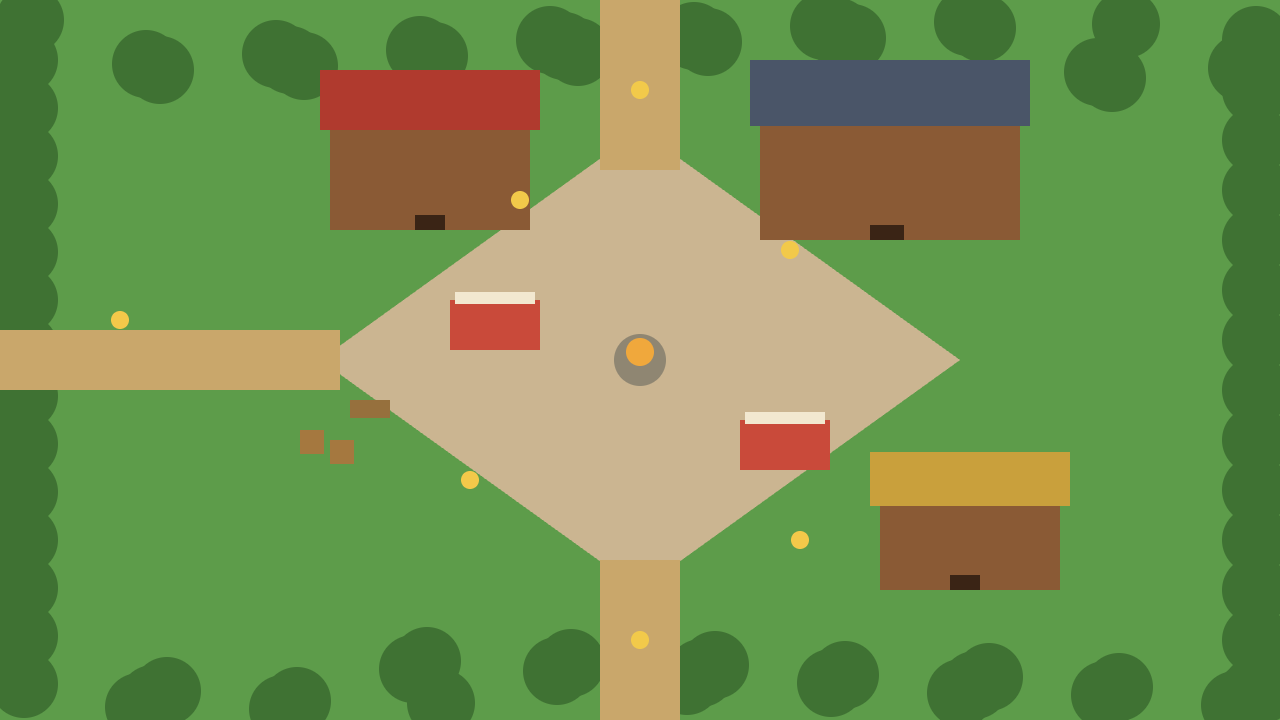
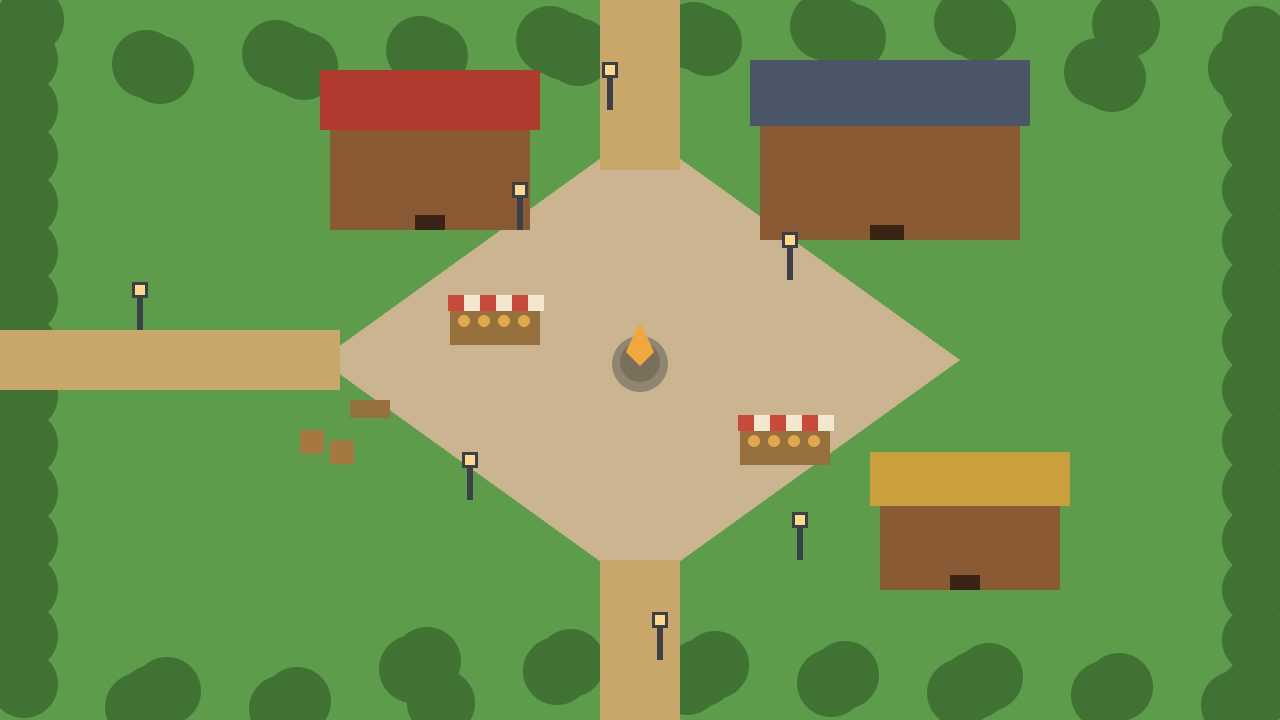
Playable scene prototypes: layout-locked square + free-form cottage interior
- proto.html/proto.js: painted backdrops, walkable polygons, camera pan,
  sliced painted June sprite, G debug overlay, Tab scene switch
- square-scene.png: regenerated from representational blockout (zero leaks)

diff --git a/public/js/proto.js b/public/js/proto.js
@@ -1,0 +1,221 @@
+'use strict';
+/* ============================================================
+   SCENE PROTOTYPE — painted backdrops + walkable polygons +
+   a generated sprite walking around. Two scenes:
+     square   — layout-locked workflow (blockout → painting)
+     interior — free-form workflow (painting → walkable mask)
+   ============================================================ */
+
+const canvas = document.getElementById('game');
+const ctx = canvas.getContext('2d');
+let cw = 0, ch = 0, dpr = 1;
+function resize() {
+  dpr = Math.min(window.devicePixelRatio || 1, 2);
+  cw = innerWidth; ch = innerHeight;
+  canvas.width = cw * dpr; canvas.height = ch * dpr;
+  canvas.style.width = cw + 'px'; canvas.style.height = ch + 'px';
+}
+addEventListener('resize', resize);
+resize();
+
+/* ---------- scenes (coordinates in image pixels) ---------- */
+const SCENES = {
+  square: {
+    img: 'assets/square-scene.png',
+    // how much of the image the viewport shows vertically (smaller = more zoomed)
+    viewH: 560,
+    charH: 95,
+    speed: 170,
+    spawn: [670, 600],
+    walk: [[295, 235], [1055, 235], [1300, 430], [1300, 720], [1040, 762], [330, 762], [80, 620], [80, 430]],
+    blocked: [
+      { kind: 'circle', x: 668, y: 500, r: 78 },              // heartlight pedestal
+      { kind: 'rect', x: 530, y: 210, w: 250, h: 165 },       // stall upper-center
+      { kind: 'rect', x: 275, y: 360, w: 150, h: 185 },       // stall left
+      { kind: 'rect', x: 945, y: 355, w: 150, h: 180 },       // stall right
+      { kind: 'rect', x: 455, y: 625, w: 250, h: 145 },       // stall bottom-left
+      { kind: 'rect', x: 730, y: 615, w: 215, h: 155 },       // stall bottom-right
+      { kind: 'rect', x: 195, y: 200, w: 280, h: 175 },       // bakery
+      { kind: 'rect', x: 860, y: 90, w: 320, h: 200 },        // elder hall
+      { kind: 'rect', x: 1020, y: 500, w: 330, h: 220 },      // thatched cottage
+      { kind: 'circle', x: 250, y: 470, r: 16 },              // lamps
+      { kind: 'circle', x: 765, y: 330, r: 14 },
+      { kind: 'circle', x: 1095, y: 460, r: 16 },
+      { kind: 'rect', x: 165, y: 460, w: 45, h: 105 },        // notice board
+      { kind: 'rect', x: 195, y: 570, w: 90, h: 80 },         // crates/barrels
+      { kind: 'rect', x: 320, y: 520, w: 60, h: 60 },         // barrel by left stall
+    ],
+  },
+  interior: {
+    img: 'assets/cottage-interior-sample.png',
+    viewH: 700,
+    charH: 165,
+    speed: 260,
+    spawn: [560, 620],
+    walk: [[430, 470], [620, 380], [900, 430], [1080, 500], [1050, 620], [780, 740], [520, 720], [400, 610]],
+    blocked: [
+      { kind: 'rect', x: 600, y: 240, w: 310, h: 210 },       // bed
+      { kind: 'rect', x: 495, y: 480, w: 210, h: 150 },       // table + chair
+      { kind: 'rect', x: 920, y: 250, w: 150, h: 240 },       // shelves right
+      { kind: 'rect', x: 390, y: 230, w: 210, h: 230 },       // hearth + wood pile
+    ],
+  },
+};
+
+let sceneKey = 'square';
+let scene = SCENES[sceneKey];
+const images = {};
+for (const [k, s] of Object.entries(SCENES)) {
+  images[k] = new Image();
+  images[k].src = s.img;
+}
+
+/* ---------- June sprite (sliced from the generated sheet) ---------- */
+const SHEET = new Image();
+SHEET.src = 'assets/sprite-june-test.png';
+const PICKS = {
+  down: [[0, 0], [0, 1], [0, 2], [0, 3]],
+  up:   [[1, 0], [2, 0], [2, 1], [3, 1]],
+  left: [[1, 2], [2, 2], [1, 3], [2, 2]],
+};
+const frames = { down: [], up: [], left: [], right: [] };
+SHEET.onload = () => {
+  const CELL = 256;
+  const key = (cx, cy) => {
+    const c = document.createElement('canvas');
+    c.width = CELL; c.height = CELL;
+    const g = c.getContext('2d');
+    g.drawImage(SHEET, cx * CELL, cy * CELL, CELL, CELL, 0, 0, CELL, CELL);
+    const d = g.getImageData(0, 0, CELL, CELL), px = d.data;
+    let minX = CELL, minY = CELL, maxX = 0, maxY = 0;
+    for (let i = 0; i < px.length; i += 4) {
+      const r = px[i], gg = px[i + 1], b = px[i + 2];
+      if (r > 170 && b > 100 && gg < 110 && r - gg > 90) { px[i + 3] = 0; continue; }
+      const x = (i / 4) % CELL, y = Math.floor(i / 4 / CELL);
+      if (x < minX) minX = x; if (x > maxX) maxX = x;
+      if (y < minY) minY = y; if (y > maxY) maxY = y;
+    }
+    g.putImageData(d, 0, 0);
+    const w = maxX - minX + 1, h = maxY - minY + 1;
+    const out = document.createElement('canvas');
+    out.width = 160; out.height = 230;
+    out.getContext('2d').drawImage(c, minX, minY, w, h, (160 - w) / 2, 230 - h, w, h);
+    return out;
+  };
+  for (const [dir, cells] of Object.entries(PICKS)) frames[dir] = cells.map(([cx, cy]) => key(cx, cy));
+  frames.right = frames.left.map(c => {
+    const m = document.createElement('canvas');
+    m.width = c.width; m.height = c.height;
+    const g = m.getContext('2d');
+    g.translate(c.width, 0); g.scale(-1, 1); g.drawImage(c, 0, 0);
+    return m;
+  });
+};
+
+/* ---------- player ---------- */
+const player = { x: 0, y: 0, dir: 'down', animT: 0, moving: false };
+function enterScene(k) {
+  sceneKey = k; scene = SCENES[k];
+  player.x = scene.spawn[0]; player.y = scene.spawn[1];
+}
+enterScene('square');
+
+/* ---------- input ---------- */
+const keys = {};
+let showMask = false;
+addEventListener('keydown', (e) => {
+  if (e.code === 'Tab') { e.preventDefault(); enterScene(sceneKey === 'square' ? 'interior' : 'square'); }
+  if (e.code === 'KeyG') showMask = !showMask;
+  keys[e.code] = true;
+});
+addEventListener('keyup', (e) => { keys[e.code] = false; });
+
+/* ---------- collision ---------- */
+function inPoly(pts, x, y) {
+  let inside = false;
+  for (let i = 0, j = pts.length - 1; i < pts.length; j = i++) {
+    const [xi, yi] = pts[i], [xj, yj] = pts[j];
+    if ((yi > y) !== (yj > y) && x < (xj - xi) * (y - yi) / (yj - yi) + xi) inside = !inside;
+  }
+  return inside;
+}
+function walkable(x, y) {
+  if (!inPoly(scene.walk, x, y)) return false;
+  for (const b of scene.blocked) {
+    if (b.kind === 'rect' && x > b.x && x < b.x + b.w && y > b.y && y < b.y + b.h) return false;
+    if (b.kind === 'circle' && Math.hypot(x - b.x, y - b.y) < b.r) return false;
+  }
+  return true;
+}
+
+/* ---------- loop ---------- */
+let last = performance.now();
+function frame(now) {
+  const dt = Math.min(0.05, (now - last) / 1000);
+  last = now;
+
+  let vx = (keys.KeyD || keys.ArrowRight ? 1 : 0) - (keys.KeyA || keys.ArrowLeft ? 1 : 0);
+  let vy = (keys.KeyS || keys.ArrowDown ? 1 : 0) - (keys.KeyW || keys.ArrowUp ? 1 : 0);
+  const len = Math.hypot(vx, vy);
+  player.moving = len > 0;
+  if (len > 0) {
+    vx /= len; vy /= len;
+    const nx = player.x + vx * scene.speed * dt;
+    const ny = player.y + vy * scene.speed * dt;
+    if (walkable(nx, player.y)) player.x = nx;
+    if (walkable(player.x, ny)) player.y = ny;
+    player.dir = Math.abs(vx) > Math.abs(vy) ? (vx > 0 ? 'right' : 'left') : (vy > 0 ? 'down' : 'up');
+    player.animT += dt;
+  }
+
+  render();
+  requestAnimationFrame(frame);
+}
+
+function render() {
+  ctx.setTransform(dpr, 0, 0, dpr, 0, 0);
+  ctx.fillStyle = '#0d0a08';
+  ctx.fillRect(0, 0, cw, ch);
+  const img = images[sceneKey];
+  if (!img.complete || !img.naturalWidth) return;
+
+  const Z = ch / scene.viewH;
+  const viewW = cw / Z;
+  let camX = Math.max(viewW / 2, Math.min(img.naturalWidth - viewW / 2, player.x));
+  let camY = Math.max(scene.viewH / 2, Math.min(img.naturalHeight - scene.viewH / 2, player.y));
+  if (img.naturalWidth < viewW) camX = img.naturalWidth / 2;
+  if (img.naturalHeight < scene.viewH) camY = img.naturalHeight / 2;
+
+  ctx.save();
+  ctx.translate(cw / 2, ch / 2);
+  ctx.scale(Z, Z);
+  ctx.translate(-camX, -camY);
+  ctx.imageSmoothingEnabled = true;
+  ctx.drawImage(img, 0, 0);
+
+  // walkable debug overlay
+  if (showMask) {
+    ctx.fillStyle = 'rgba(80,220,120,.25)';
+    ctx.beginPath();
+    scene.walk.forEach(([x, y], i) => i ? ctx.lineTo(x, y) : ctx.moveTo(x, y));
+    ctx.closePath(); ctx.fill();
+    ctx.fillStyle = 'rgba(230,60,60,.4)';
+    for (const b of scene.blocked) {
+      if (b.kind === 'rect') ctx.fillRect(b.x, b.y, b.w, b.h);
+      else { ctx.beginPath(); ctx.arc(b.x, b.y, b.r, 0, 7); ctx.fill(); }
+    }
+  }
+
+  // June
+  const fr = frames[player.dir] && frames[player.dir].length
+    ? frames[player.dir][player.moving ? Math.floor(player.animT * 7) % frames[player.dir].length : 0]
+    : null;
+  if (fr) {
+    const h = scene.charH, w = h * (160 / 230);
+    ctx.fillStyle = 'rgba(0,0,0,.3)';
+    ctx.beginPath(); ctx.ellipse(player.x, player.y + 4, w * 0.32, h * 0.07, 0, 0, 7); ctx.fill();
+    ctx.drawImage(fr, player.x - w / 2, player.y - h, w, h);
+  }
+  ctx.restore();
+}
+requestAnimationFrame(frame);

diff --git a/public/blockout.html b/public/blockout.html
@@ -31,16 +31,27 @@
   // doors (dark, facing the plaza)
   rect(415, 215, 30, 15, '#3a2415'); rect(870, 225, 34, 15, '#3a2415'); rect(950, 575, 30, 15, '#3a2415');
 
-  // heartlight pedestal (center of plaza) — amber
-  blob(640, 360, 26, '#8f8672'); blob(640, 352, 14, '#f0a83c');
+  // heartlight pedestal (center of plaza) — stone base, amber crystal
+  blob(640, 364, 28, '#8f8672'); blob(640, 362, 20, '#7a6f5a');
+  g.fillStyle = '#f0a83c';
+  g.beginPath(); g.moveTo(640, 322); g.lineTo(654, 352); g.lineTo(640, 366); g.lineTo(626, 352); g.closePath(); g.fill();
 
-  // market stalls (red/white) west + east of center
-  rect(450, 300, 90, 50, '#c94a3a'); rect(455, 292, 80, 12, '#f2e8d0');
-  rect(740, 420, 90, 50, '#c94a3a'); rect(745, 412, 80, 12, '#f2e8d0');
+  // market stalls with striped awnings + goods
+  const stall = (x, y) => {
+    rect(x, y + 14, 90, 36, '#96703d');            // counter
+    for (let i = 0; i < 6; i++) rect(x - 2 + i * 16, y, 16, 16, i % 2 ? '#f2e8d0' : '#c94a3a'); // striped awning
+    for (let i = 0; i < 4; i++) blob(x + 14 + i * 20, y + 26, 6, '#e0a94e');  // buns
+  };
+  stall(450, 295); stall(740, 415);
 
-  // lamp posts (amber dots) at plaza corners + one on each road
-  for (const [x, y] of [[520, 200], [790, 250], [470, 480], [800, 540], [640, 640], [120, 320], [640, 90]])
-    blob(x, y, 9, '#f2c94a');
+  // iron lamp posts: dark post + glowing amber head
+  const lamp = (x, y) => {
+    rect(x - 3, y - 34, 6, 34, '#3a3f4a');
+    rect(x - 8, y - 48, 16, 16, '#3a3f4a');
+    rect(x - 5, y - 45, 10, 10, '#ffd98a');
+  };
+  for (const [x, y] of [[520, 230], [790, 280], [470, 500], [800, 560], [660, 660], [140, 330], [610, 110]])
+    lamp(x, y);
 
   // notice board + crates near west entrance
   rect(350, 400, 40, 18, '#96703d');

diff --git a/public/proto.html b/public/proto.html
@@ -1,0 +1,17 @@
+<meta charset="utf-8">
+<title>Emberbrook — scene prototype</title>
+<style>
+  html, body { margin: 0; height: 100%; background: #0d0a08; overflow: hidden; }
+  canvas { display: block; }
+  #hud {
+    position: fixed; top: 12px; left: 12px;
+    color: #f2e4c4; font: 14px "Iowan Old Style", Palatino, Georgia, serif; font-style: italic;
+    background: rgba(20,14,8,.7); padding: 8px 14px; border-radius: 8px;
+    border: 1px solid rgba(201,151,63,.4);
+  }
+</style>
+<canvas id="game"></canvas>
+<div id="hud">
+  <b>scene prototype</b> — WASD/arrows walk · <b>Tab</b> switch scene · <b>G</b> show walkable area
+</div>
+<script src="js/proto.js"></script>